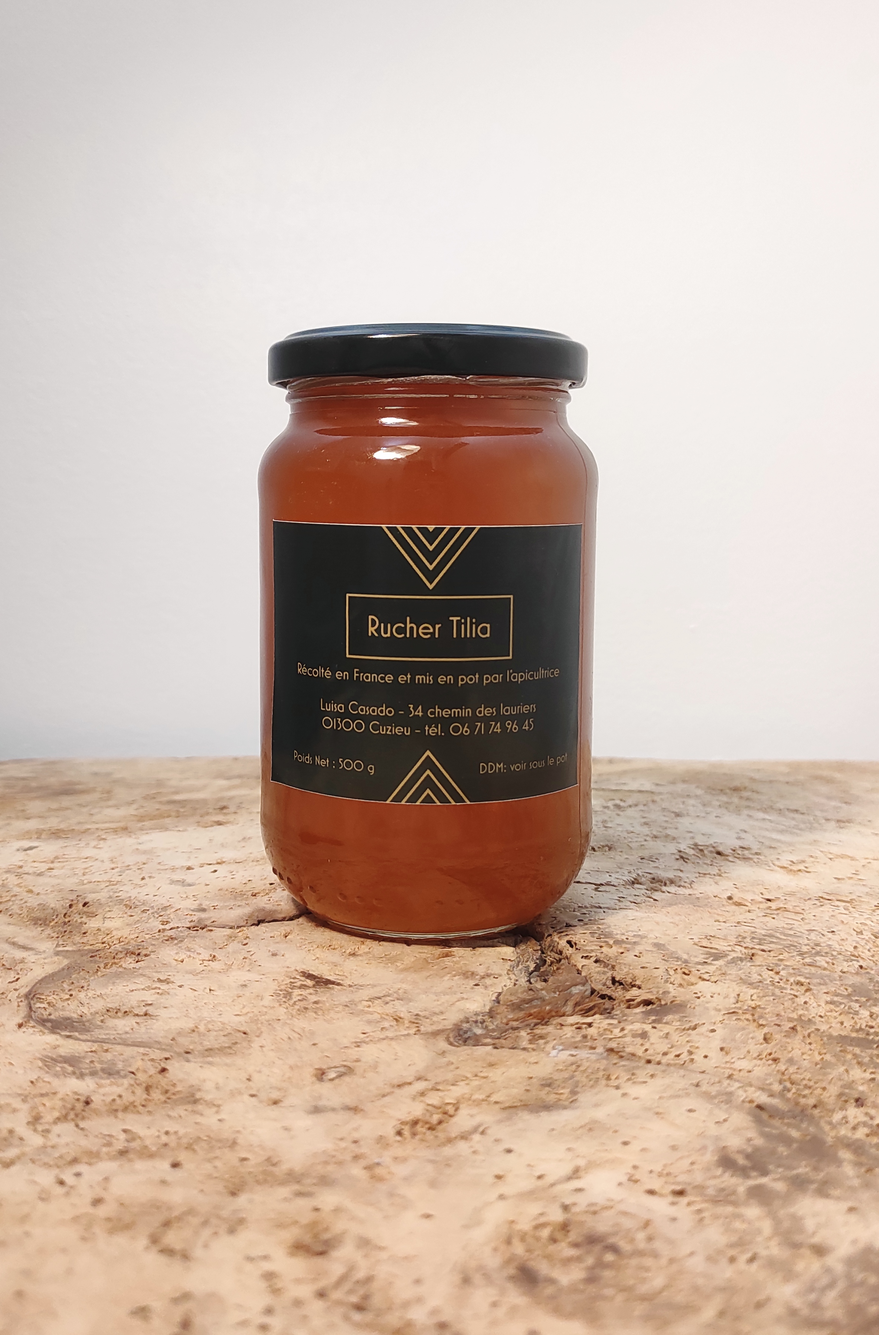
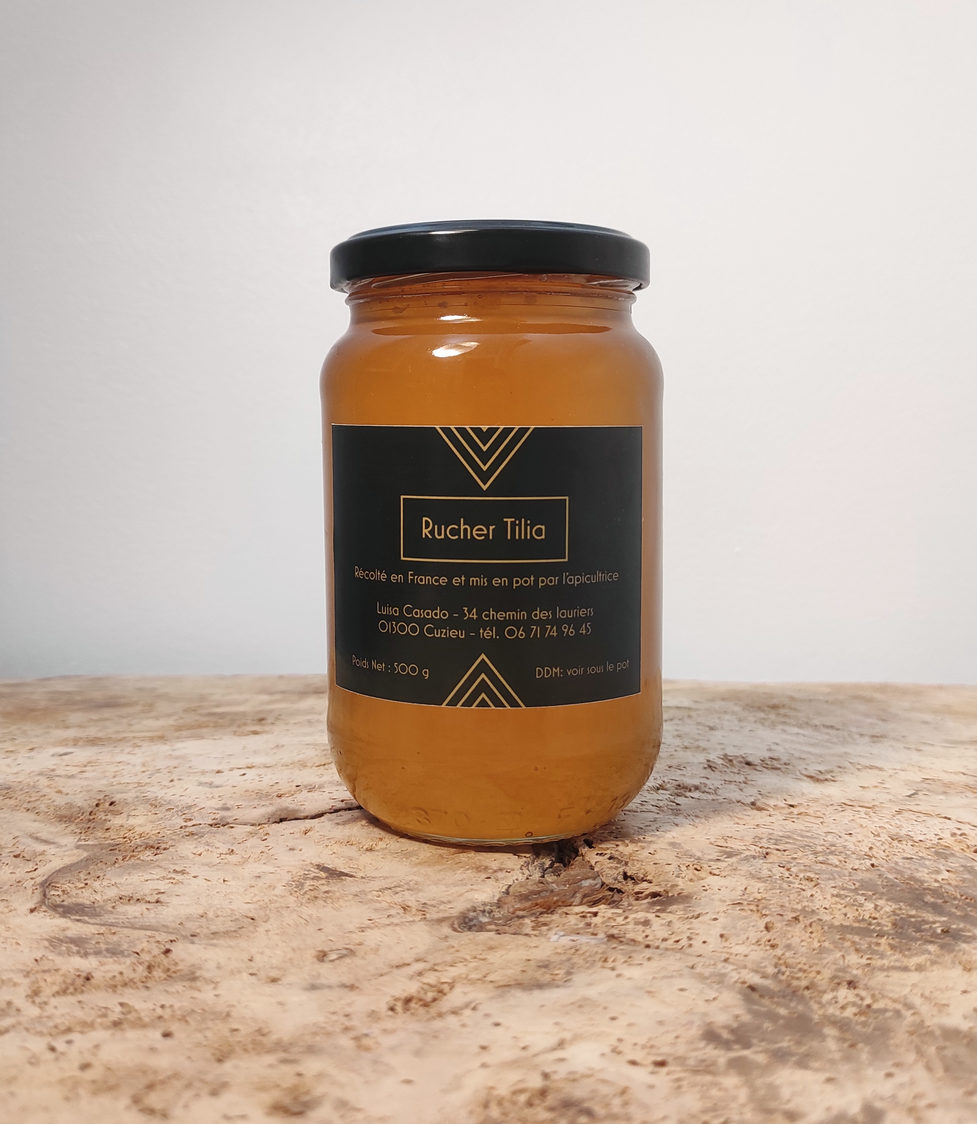
Update some images, add price switcher

diff --git a/src/app/miels/miels.component.ts b/src/app/miels/miels.component.ts
@@ -1,4 +1,5 @@
 import { Component, OnInit } from '@angular/core';
+import {FormBuilder, FormGroup, Validators} from '@angular/forms';
 import { Miel } from '../interfaces/miel';
 
 @Component({
@@ -12,60 +13,76 @@ export class MielsComponent implements OnInit {
     {
       title: 'Acacia',
       description: 'Avec sa robe dorée, l’acacia offre un miel délicatement suave. Sa texture liquide et son parfum en fait l’un des miels le plus apprécié. Il est le compagnon idéal pour la cuisine.',
-      taste: 'Doux, floral, forte sucrosité.',
-      texture: 'Liquide.',
+      taste: 'Doux, floral, forte sucrosité',
+      texture: 'Liquide',
       strength: 1,
       place: 'Saint André de Corcy - La Dombes, Ain',
-      price: 10
+      localprice: 8,
+      notlocalprice: 10
     },
     {
       title: 'Lavande',
       description: 'La lavande est plantés pour obtenir de l’huile essentielle aux multiples vertus appréciées. Ce miel est gourmand, très aromatique et à tendance à cristalliser.',
-      taste: 'Doux,floral, arôme fin et parfumé.',
-      texture: 'Solide, cristallisation fine et onctueuse.',
+      taste: 'Doux,floral, arôme fin et parfumé',
+      texture: 'Solide, cristallisation fine et onctueuse',
       strength: 2,
       place: 'Drôme provençale',
-      price: 10
+      localprice: 9,
+      notlocalprice: 10
     },
     {
       title: 'Printemps',
-      description: 'Ce doux a permis aux abeilles de butiner de nombreuses essences. Le nectar de cloza, de l\'aubépine, de l\'érable et d\'arbres fruitiers composent ce miel atypique.',
-      taste: 'Suave et fruité, discret mais tenace.',
+      description: 'Ce doux printemps a permis aux abeilles de butiner de nombreuses essences. Le nectar de cloza, de l\'aubépine, de l\'érable et d\'arbres fruitiers composent ce miel atypique.',
+      taste: 'Suave et fruité, discret mais tenace',
       texture: 'Douce, crémeux',
       strength: 2,
       place: 'Priay - Plaine de l\'Ain',
-      price: 6
+      localprice: 6,
+      notlocalprice: 6
     },
     {
       title: 'Été',
       description: 'Ce miel orangé, principalement composé du nectar de tournesol, vous amènera du soleil cet hiver. Il est le commagnon idéal des enfants de par sa texture et son goût léger.',
-      taste: 'Doux, forte sucrosité.',
-      texture: 'Cristalisé.',
+      taste: 'Doux, forte sucrosité',
+      texture: 'Cristalisé',
       strength: 2,
       place: 'Priay - Plaine de l\'Ain',
-      price: 8
+      localprice: 7,
+      notlocalprice: 8
     },
     {
       title: 'Sapin & Tilleul',
       description: 'Issu de coteaux avoisinants la moyenne montagne, ce nectar n\'est pas prêt de se faire oulier. Caractérisé par son goût mentholé et résineux unique, il ravira les amateurs de miels.',
       taste: 'Frais, mentholé, effluve de résine',
-      texture: 'Cristallisation lente mais fine.',
+      texture: 'Cristallisation lente mais fine',
       strength: 3,
       place: 'Sutrieu - Valromey, Ain',
-      price: 8
+      localprice: 8,
+      notlocalprice: 8
     },
     {
       title: 'Châtaignier',
       description: 'Son odeur forte et sa couleur ambrée, en font l\’un des miels les plus caractériels. Son aspect liquide est idéal pour la dégustation mais aussi la cuisine.',
       taste: 'Boisé, corsé, amer et acide',
-      texture: 'Liquide, cristallisation lente et grossière.',
+      texture: 'Liquide, cristallisation lente et grossière',
       strength: 4,
       place: 'Sutrieu - Valromey, Ain',
-      price: 8
+      localprice: 8,
+      notlocalprice: 8
     },
   ];
 
-  constructor() { }
+  // Form to switch prices
+  isChecked = true;
+  formGroup = this._formBuilder.group({
+    localPrices: ['', Validators.requiredTrue],
+  });
+
+  constructor(private _formBuilder: FormBuilder) { }
+
+  alertFormValues(formGroup: FormGroup) {
+    alert(JSON.stringify(formGroup.value, null, 2));
+  }
 
   ngOnInit(): void {
   }

diff --git a/src/app/miels/miels.component.html b/src/app/miels/miels.component.html
@@ -1,14 +1,16 @@
 <div class="container py-5" id="miels">
   <div class="container">
-
     <h1 class="display-6 text-dark">Les miels disponibles</h1>
+    <form class="example-form" [formGroup]="formGroup" (ngSubmit)="alertFormValues(formGroup)" ngNativeValidate>
+      <mat-slide-toggle formControlName="localPrices">Prix à la ferme</mat-slide-toggle>
+    </form>
     <div class="row">
       <div class="col-md-3 col-sm-6 highlight" *ngFor="let miel of miels; let i = index">
         <div class="h-caption">
-          <h4 class="display-10 text-dark">{{miel.title}}</h4>
+          <h2 class="display-12 text-dark" id="miel_title">{{miel.title}}</h2>
         </div>
-        <div class="h-body">
-          <p><img src="{{'../../assets/images/honey/' + miel.title + '.jpg'}}" alt="" class="card-img-to" width="250" height="300" ></p>
+        <div class="h-body text-muted">
+          <p><img src="{{'../../assets/images/honey/' + miel.title + '.jpg'}}" alt="" class="card-img-to" width="200" height="300" ></p>
           <p>{{miel.description}}</p>
           <p><b>Goût</b> : {{miel.taste}}</p>
           <p><b>Texture</b> : {{miel.texture}}</p>
@@ -19,7 +21,13 @@
             </tr>
           </table>
           <p><b>Lieu de butinage</b> : {{miel.place}}</p>
-          <p>{{miel.price | currency:'EUR':'symbol':'.2-2':'fr' }}</p>
+          <div *ngIf="formGroup.valid; else elseBlock">
+            <p>{{miel.localprice | currency:'EUR':'symbol':'.2-2':'fr' }}</p>
+          </div>
+          <ng-template #elseBlock>
+            <p>{{miel.notlocalprice | currency:'EUR':'symbol':'.2-2':'fr' }}</p>
+          </ng-template>
+
         </div>
       </div>
     </div>

diff --git a/src/index.html b/src/index.html
@@ -5,13 +5,14 @@
   <title>Ruchertilia</title>
   <base href="/">
   <meta name="viewport" content="width=device-width, initial-scale=1">
-  <link rel="icon" type="image/x-icon" href="assets/images/favicon.png">
+  <link rel="icon" type="image/x-icon" href="assets/images/icons/favicon.png">
   <link rel="preconnect" href="https://fonts.gstatic.com">
   <link rel="stylesheet" href="https://fonts.googleapis.com/icon?family=Material+Icons">
   <link href="https://fonts.googleapis.com/css2?family=Roboto:wght@300;400;500&display=swap" rel="stylesheet">
   <link href="https://fonts.googleapis.com/icon?family=Material+Icons" rel="stylesheet">
+  <link href="https://fonts.googleapis.com/css?family=Quicksand:400,700" rel="stylesheet">
 </head>
-<body>
+<body class="mat-typography">
   <app-root></app-root>
 </body>
 </html>

diff --git a/src/app/app.module.ts b/src/app/app.module.ts
@@ -25,8 +25,12 @@ import { registerLocaleData } from '@angular/common';
 import localeFr from '@angular/common/locales/fr';
 registerLocaleData(localeFr);
 
-// start module
+// star rating module
 import { StarRatingModule } from 'angular-star-rating';
+
+// materials
+import { MatSlideToggleModule } from '@angular/material/slide-toggle';
+import { BrowserAnimationsModule } from '@angular/platform-browser/animations';
 
 
 @NgModule({
@@ -52,6 +56,8 @@ import { StarRatingModule } from 'angular-star-rating';
     provideAuth(() => getAuth()),
     provideFirestore(() => getFirestore()),
     StarRatingModule.forRoot(),
+    BrowserAnimationsModule,
+    MatSlideToggleModule,
   ],
   providers: [
     { provide: LOCALE_ID, useValue: 'fr-FR'},

diff --git a/src/app/miels/miels.component.scss b/src/app/miels/miels.component.scss
@@ -1,0 +1,11 @@
+:host ::ng-deep .mat-slide-toggle.mat-checked:not(.mat-disabled) .mat-slide-toggle-bar {
+  background-color: #9c9723 ;
+}
+
+:host ::ng-deep  .mat-slide-toggle.mat-checked:not(.mat-disabled) .mat-slide-toggle-thumb {
+  background-color: #e1d816 ;
+}
+
+#miel_title {
+  font-family: 'Quicksand';
+}

diff --git a/src/styles.scss b/src/styles.scss
@@ -2,3 +2,6 @@
 @import "~bootstrap/dist/css/bootstrap.min.css";
 
 @import '~css-star-rating/scss/star-rating';
+
+html, body { height: 100%; }
+body { margin: 0; font-family: Roboto, "Helvetica Neue", sans-serif; }

diff --git a/src/app/interfaces/miel.ts b/src/app/interfaces/miel.ts
@@ -6,5 +6,6 @@ export interface Miel {
   texture: string;
   strength: number;
   place: string;
-  price: number;
+  localprice: number;
+  notlocalprice: number;
 }
